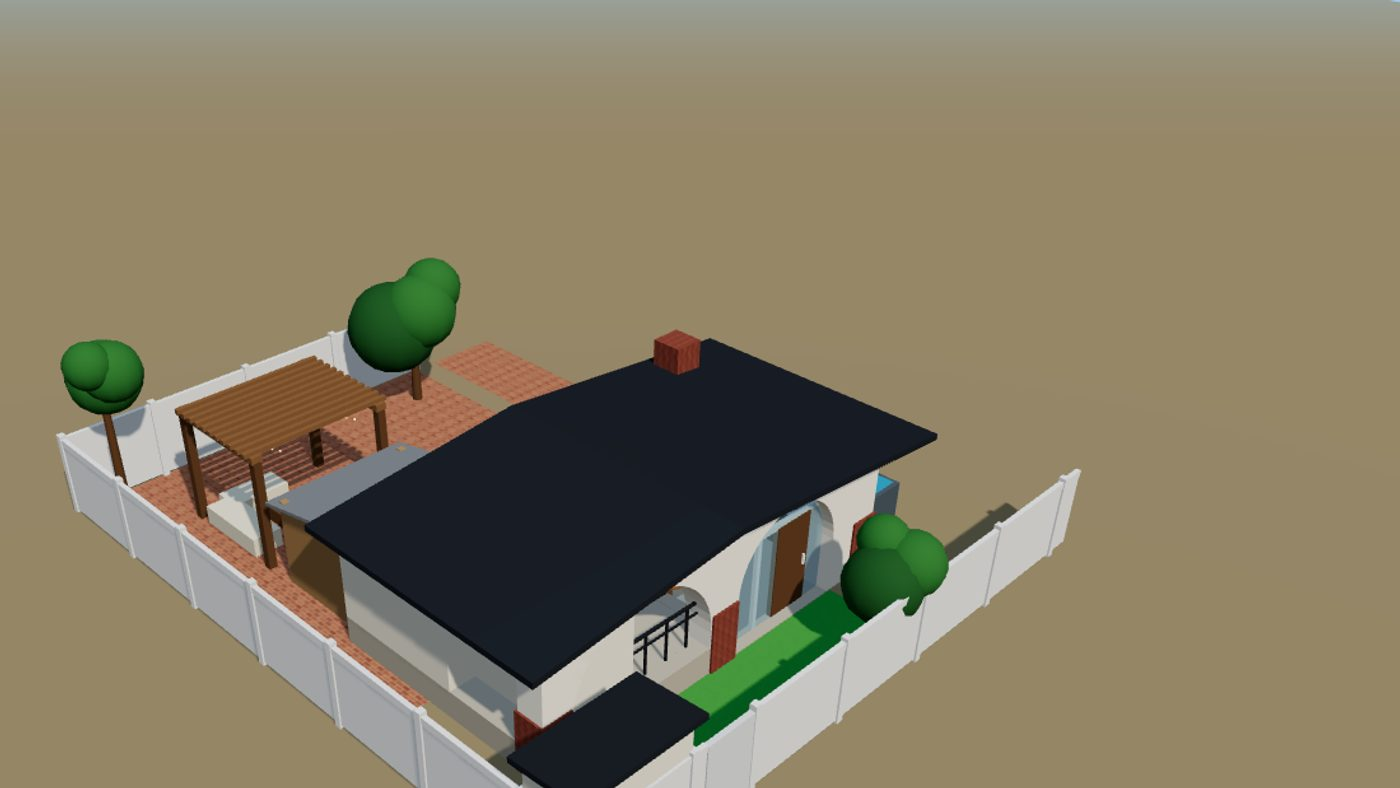
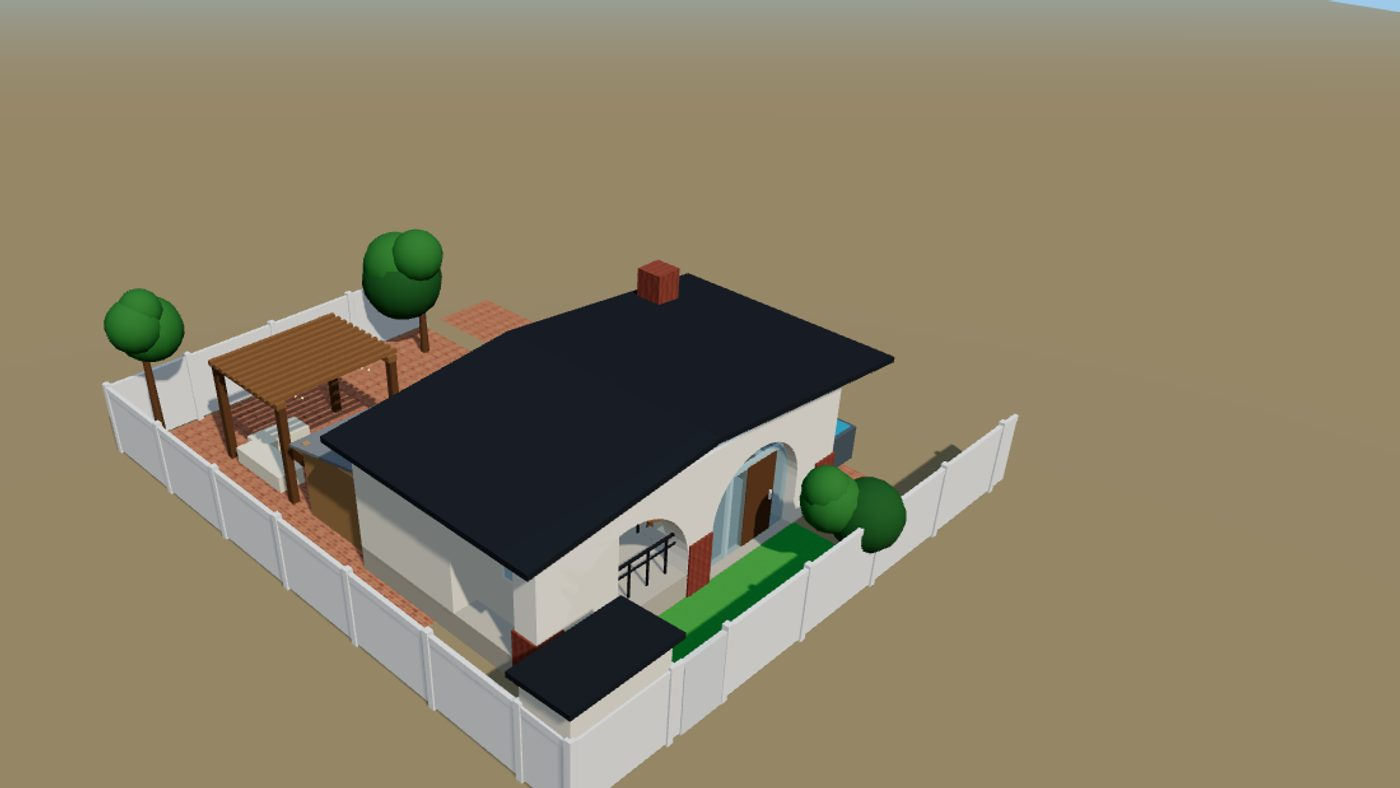
3D: raise structure for 9ft office walls — roof profile up ~2.25ft, kitchen/arch walls to 11+, chimney through raised roof, clerestories repositioned; note 9ft walls on blueprint/scope. Hero/og/poster regenerated

Changed region(s): [[0.0307, 0.2741, 0.7679, 1.0], [0.9521, 0.0, 1.0, 0.0305]]

diff --git a/render3d.html b/render3d.html
@@ -175,19 +175,19 @@ pad(18, 0, 26, 31, lawnTex(3, 8), 0.03);
 const B = new THREE.Group(); scene.add(B);
 const RF = 2;             // raised floor height (office/east room/bath)
 const WALL = 8;           // wall height above raised floor
-const KW = 9;             // kitchen wall height from grade
+const KW = 11.5;          // kitchen wall height from grade (office walls are 9' over the 2' raised floor)
 
 // --- Raised plinth under office + east room + new bath (z14-26) ---
 box(18, RF, 12, M.concrete, 9, RF / 2, 20, B);
 // --- Veranda extension plinth — 10' wide (kitchen-aligned) × 3' north to the ridge (z11-14) ---
 box(10, RF, 3, M.concrete, 13, RF / 2, 12.5, B);
 
-// --- Office core (x0-10, z14-26) — walls stop under the low roof ---
-box(10, 6.6, 12, M.stucco, 5, RF + 3.3, 20, B);
+// --- Office core (x0-10, z14-26) — 9' walls over the raised floor ---
+box(10, 9, 12, M.stucco, 5, RF + 4.5, 20, B);
 // --- East room (x10-18, z14-19): open raised veranda flowing into the z11-14 extension.
 //     West enclosure = office east wall; south enclosure = new bath mass.
-// --- New bath (x10-18, z19-24) — 8×5, fully on the original footprint ---
-box(8, 6.4, 5, M.stucco, 14, RF + 3.2, 21.5, B);
+// --- New bath (x10-18, z19-24) — 8×5, fully on the original footprint, walls to the roof ---
+box(8, 9, 5, M.stucco, 14, RF + 4.5, 21.5, B);
 
 // --- Kitchen zone (x8-18, z-2..11, grade, north wall to ridge, under the main roof) ---
 box(0.7, KW, 13, M.stucco, 8.35, KW / 2, 4.5, B);       // west wall (partition to open patio)
@@ -218,11 +218,11 @@ box(2.1, 0.18, 2.6, M.trim, 14.95, 3.1, -0.7, B);
 const NWALL = new THREE.Group(); scene.add(NWALL);
 {
   // Arches are completely stucco; brick pillars rise only to the spring line.
-  const aw = archWall(18, 9, [{ c: 5, w: 6, h: 7.2 }, { c: 13, w: 6, h: 7.2 }], 2, M.stuccoWhite);
+  const aw = archWall(18, 11, [{ c: 5, w: 6, h: 7.2 }, { c: 13, w: 6, h: 7.2 }], 2, M.stuccoWhite);
   aw.position.set(0, 0, -4); NWALL.add(aw);   // extrudes z -4 → -2
   box(2.3, 4.4, 2.3, M.brick, 9, 2.2, -3, NWALL);    // center pillar — brick to spring line
   box(2.3, 4.4, 2.3, M.brick, 17, 2.2, -3, NWALL);   // NE pillar
-  box(2.3, 6.8, 2.3, M.brick, 1, 8, -3, NWALL);      // NW pillar IS the chimney — rises FROM the dome, through the roof
+  box(2.3, 9.4, 2.3, M.brick, 1, 9.3, -3, NWALL);    // NW pillar IS the chimney — rises FROM the dome, through the raised roof
 }
 // East arch = arched window over the kitchen sink (arch kept, glazed at the outer wall face)
 box(5.6, 6.9, 0.25, M.glass, 13, 3.6, -3.75);
@@ -255,7 +255,7 @@ const F = new THREE.Group(); F.position.set(1, 0, -3); F.rotation.y = Math.PI / 
 const EARC = new THREE.Group(); scene.add(EARC);
 {
   // Arches span pillar-to-pillar — they land on the brick right at the pillar tops
-  const aw = archWall(29, 9, [
+  const aw = archWall(29, 11, [
     { c: 20.95, w: 9.4, h: 9 },    // north bay (kitchen east side / ENTRY) — center z 5.05
     { c: 8, w: 11.6, h: 9 },       // south bay (east room — open, rail + stairs) — center z 18
   ], 2, M.stuccoWhite);
@@ -332,10 +332,10 @@ const WD = new THREE.Group(); scene.add(WD);
   box(0.3, 3.5, 2.5, M.trim, 0, 5.6, 17.5, WD);
   box(0.36, 3.1, 2.1, M.glass, 0, 5.6, 17.5, WD);
   box(0.38, 0.12, 2.1, M.trim, 0, 5.6, 17.5, WD);       // meeting rail
-  // [5] Clerestory pair — office south wall, high on the gable
+  // [5] Clerestory pair — office south wall, high on the gable (9' walls)
   for (const cx of [3.6, 6.4]) {
-    box(1.5, 0.9, 0.3, M.trim, cx, 7.9, 26, WD);
-    box(1.2, 0.65, 0.36, M.glass, cx, 7.9, 26, WD);
+    box(1.5, 0.9, 0.3, M.trim, cx, 9.9, 26, WD);
+    box(1.2, 0.65, 0.36, M.glass, cx, 9.9, 26, WD);
   }
   // Bath door — north face, off the veranda deck
   box(2.8, 6.5, 0.3, M.trim, 12.2, 5.25, 19, WD);       // jamb
@@ -350,14 +350,14 @@ const WD = new THREE.Group(); scene.add(WD);
 // East-room segment z14-24: two arches GLAZED (arched windows onto the lawn)
 // ============ ROOF — one continuous low gable, 1:10 pitch, ridge E-W at z=11 ============
 const ROOF = new THREE.Group(); scene.add(ROOF);
-// South plane 16.5': eave z=27.5 (18" past office S wall) rising to ridge z=11 (3' N of office N wall).
-// North plane 20': ridge z=11 down past the 2'-thick arch wall (z 0..-2), ending z=-9 (~6-7' overhang).
+// Raised for 9' office walls (top plate y=11): south eave z=27.5 underside 10.85 rising
+// to ridge z=11 underside 12.5; north plane down past the arch wall to z=-9 underside 10.5.
 // Width 20': x -1 (1' west overhang) to x 19 (1' past the 8' east patio).
 {
   const s = new THREE.Shape();
-  s.moveTo(-9, 8.75); s.lineTo(11, 10.75); s.lineTo(27.5, 9.1);
-  s.lineTo(27.5, 8.65); s.lineTo(11, 10.3); s.lineTo(-9, 8.3);
-  s.lineTo(-9, 8.75);
+  s.moveTo(-9, 10.95); s.lineTo(11, 12.95); s.lineTo(27.5, 11.3);
+  s.lineTo(27.5, 10.85); s.lineTo(11, 12.5); s.lineTo(-9, 10.5);
+  s.lineTo(-9, 10.95);
   const g = new THREE.ExtrudeGeometry(s, { depth: 20, bevelEnabled: false });
   const m = new THREE.Mesh(g, M.roof);
   m.rotation.y = -Math.PI / 2;      // shape x-axis (plan z) → global +Z; extrude → -X from x=19

diff --git a/app.html b/app.html
@@ -476,7 +476,7 @@ const DEFAULT_TASKS=[
 _id=34;
 
 const DEFAULT_SCOPE=[
-  'Office 10×12 — raised foundation, conditioned, existing core (120 sf)',
+  'Office 10×12 — raised foundation, 9' walls, conditioned, existing core (120 sf)',
   'East Room 8×5 — open raised deck, flows into veranda extension (40 sf)',
   'New Bathroom 8×5 — raised, south end of deck, fully on original footprint (40 sf)',
   'Veranda extension 10\'×3\' — kitchen-aligned, north to the ridge line, west side solid wall (30 sf)',

diff --git a/blueprint.html b/blueprint.html
@@ -67,7 +67,7 @@ th{color:#7ab8ff;font-size:11px;text-transform:uppercase;letter-spacing:.5px}
   <!-- Office (existing conditioned core) -->
   <rect x="0" y="140" width="100" height="120" fill="none" stroke="#cfe3ff" stroke-width="2.2"/>
   <text x="50" y="192" text-anchor="middle" font-size="12" fill="#cfe3ff" font-weight="700">OFFICE</text>
-  <text x="50" y="206" text-anchor="middle" font-size="8" fill="#6d8db3">10'-0" × 12'-0" · raised floor</text>
+  <text x="50" y="206" text-anchor="middle" font-size="8" fill="#6d8db3">10'-0" × 12'-0" · raised floor · 9' walls</text>
   <text x="50" y="217" text-anchor="middle" font-size="7" fill="#6d8db3">finished · conditioned (portable AC)</text>
 
   <!-- East room / raised deck -->